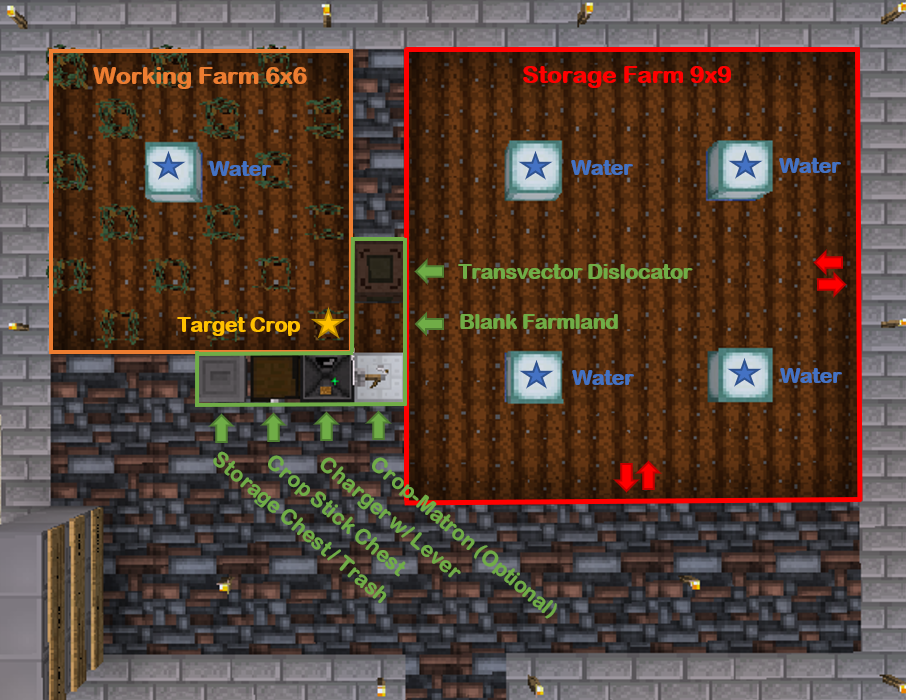
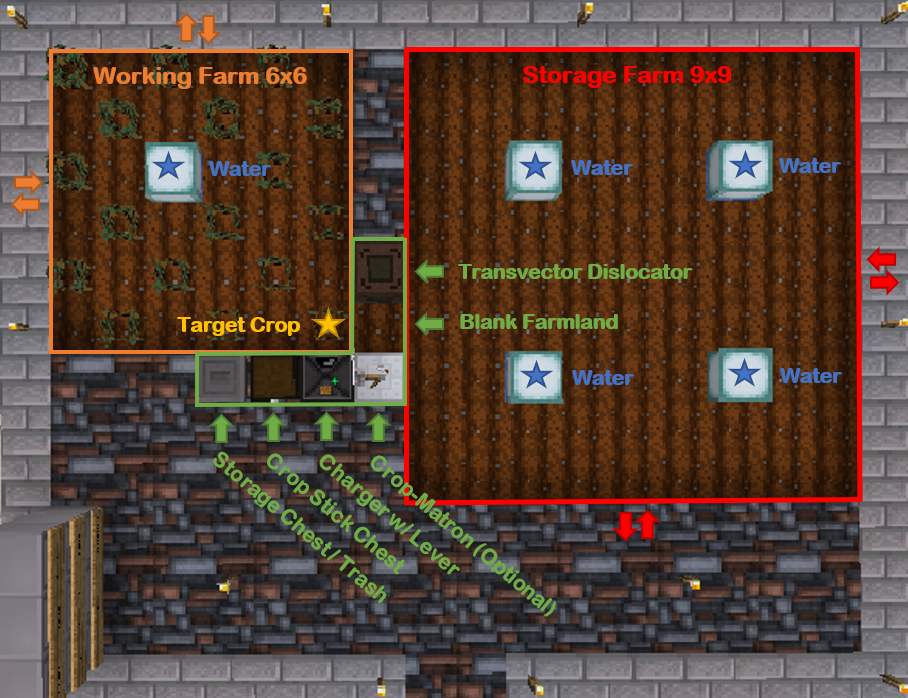
commit 13

diff --git a/README.md b/README.md
@@ -53,9 +53,9 @@ Lastly, you need a Transvector Binder and Transvector Dislocator which requires 
 
 # Building the Farms
 
-First off, it is recommended to set everything up in a Jungle or Swamp biome at Y=130 as that will give you the highest humidity and air quality stats. This is most easily done in a personal dimension which you earn as a quest reward from reaching the moon. Do not place any solid blocks above the farm as that will reduce the air quality. All of the machines on the surface are waterproof so do not worry about the rain. Use vanilla dirt because that will allow you to grow crops that require a particular block underneath, and boost the nutrient stat of your crops. The whole farm will fit into a single chunk for easy chunk loading if the storage farm size is set to 9 or less. See image below.
+First off, it is recommended to set everything up in a Jungle or Swamp biome at Y=130 as that will give you the highest humidity and air quality stats. This is most easily done in a personal dimension which you earn as a quest reward from reaching the moon. Do not place any solid blocks above the farm as that will reduce the air quality. All of the machines on the surface are waterproof so do not worry about the rain. Use vanilla dirt because that will allow you to grow crops that require a particular block underneath, and boost the nutrient stat of your crops. The whole farm can easily fit into a single chunk for easy chunk loading.
 
-You MAY NOT change the size of the working farm, but you MAY change the size of the storage farm in the config (default is 9x9). Larger sizes will extend the farm down and to the right while smaller sizes will shrink the farm up and to the left (see image below). There is no maximum size for the storage farm, but the absolute minimum is 7. Do note that larger storage farm sizes will leave your working farm more susceptible to weeds because the robot will have to travel further when transporting crops which means less time spent scanning the working farm. Both even and odd sizes work. 
+You may change both the size of the working farm and the size of the storage farm in the config (default is 6x6 and 9x9, respectively). Larger working farm sizes will extend left and up while larger storage farm sizes will extend down and to the right (see image below). The top row of the working farm will always align with the top row of the storage farm. There is no maximum or minimum size for either farm and it does not matter if the lengths are even or odd. Note that larger storage farm sizes will leave your working farm more susceptible to weeds because the robot will have to travel further when transporting crops which means less time spent scanning the working farm. 
 
 ![Farm Top](media/Farm_Top.png?)
 
@@ -133,7 +133,7 @@ If you are familiar with the older versions of this code then here are some nota
 - Added configurable option to cleanup after complete (no longer a flag).
 - Added a built-in storage reset to prevent having to break the robot in order to run autoSpread or autoTier more than once.
 - Added an uninstall script.
-- Code is a LOT cleaner and more organized, just look at this README
-- It is no longer the code's fault if any of the programs crash.
+- Code is a LOT cleaner and more organized, just look at this README.
+- It is no longer the code's fault if any of the programs crash (probably).
 
 ![Giant Sword](media/Giant_Sword.png?)
